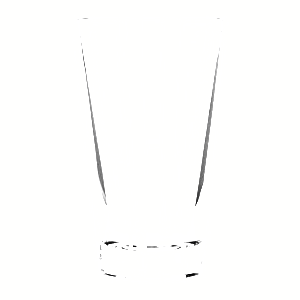
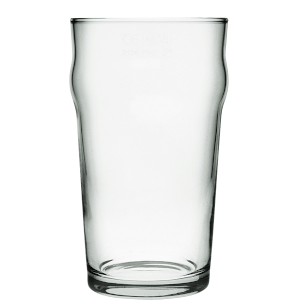
udpdated cup0

diff --git a/src/components/Joined/Joined.js b/src/components/Joined/Joined.js
@@ -27,7 +27,8 @@ class Joined extends Component {
                 <DropdownExampleSimple whichSelector="GlassType" options= {glassType}/>
                 <br/>
                 <br/>
-                <Beer beerz="0" cupz="1"/>
+                <Beer beerz="0" cupz="0"/>
+
             </div>
         );
     }
